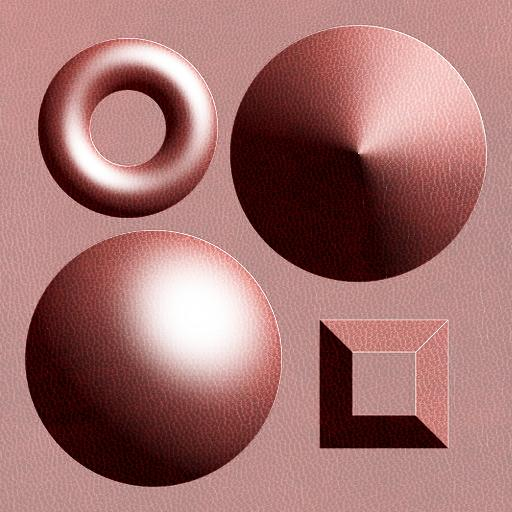
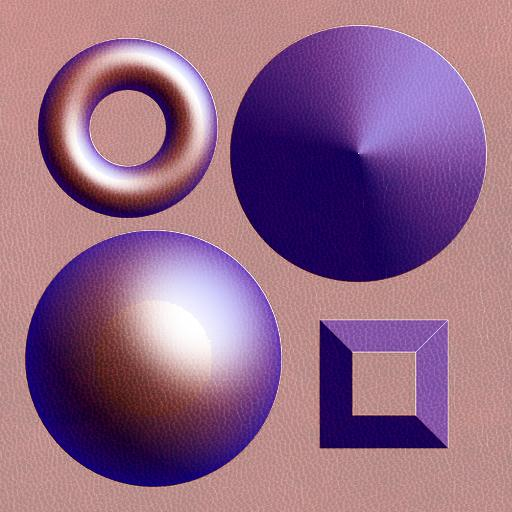
feat: use thickness in borders in values from 0.05 to 0.3 or 1

diff --git a/main.py b/main.py
@@ -25,7 +25,7 @@ DEFAULT_IMG_FORMAT = ".jpg"
 LIGHT_COLOR = np.array([232, 158, 39])
 DARK_COLOR = np.array([14, 5, 74])
 COLOR_FOR_LIGHT = np.array([255, 255, 255])
-COLOR_FOR_BORDER = np.array([255, 255, 255])
+COLOR_FOR_BORDER = np.array([0, 0, 255])
 # The program will output an update every (this number) percent done
 PERCENTAGE_STEP = 10
 L = utils.normalize(np.array([1, 1, 1]))
@@ -144,8 +144,8 @@ def shade_specular_border(n, l, dark, light, ks, thickness):
 
     eye = np.array([0, 0, 1])
     b = np.maximum(0, 1 - np.dot(eye, n))
-    min = 0.01
-    max = 0.99
+    min = thickness
+    max = 1
     b = (b - min) / (max - min)
     if b < min:
         b = 0
